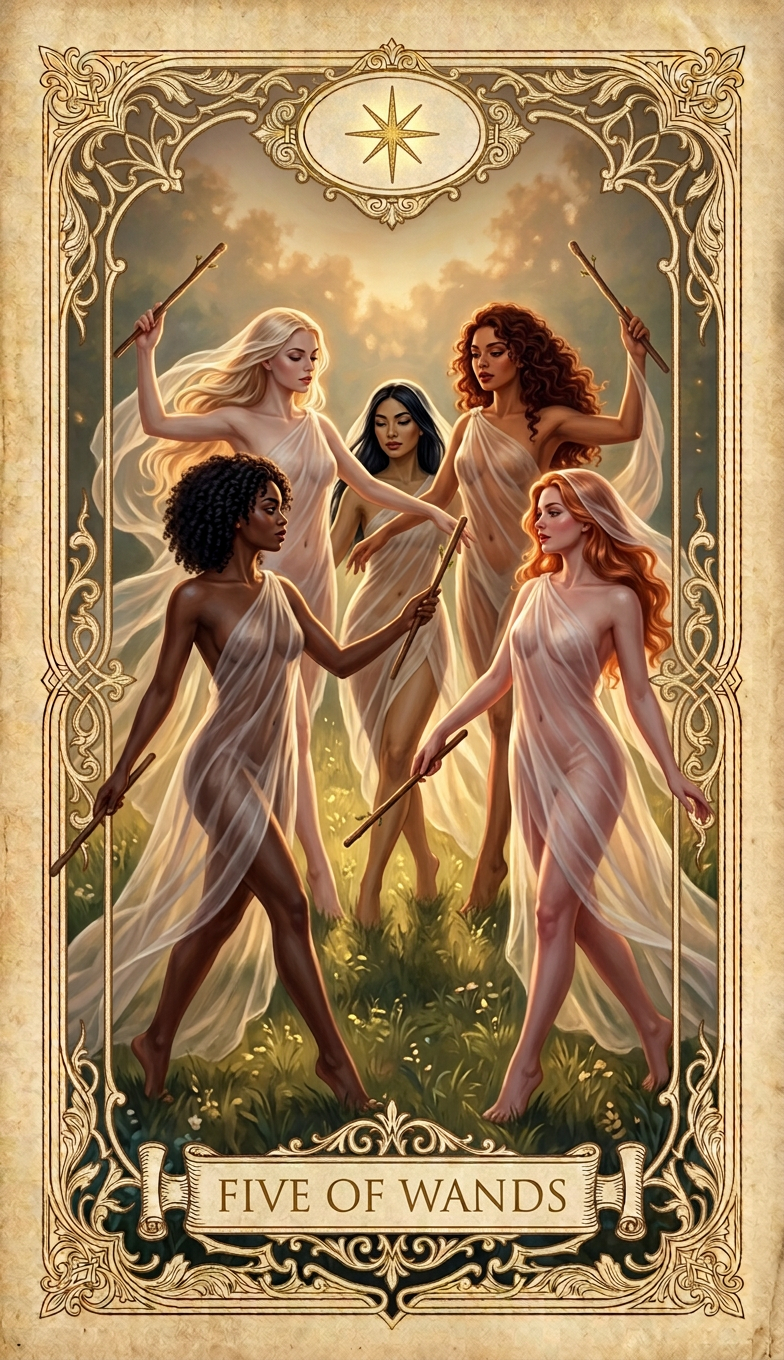
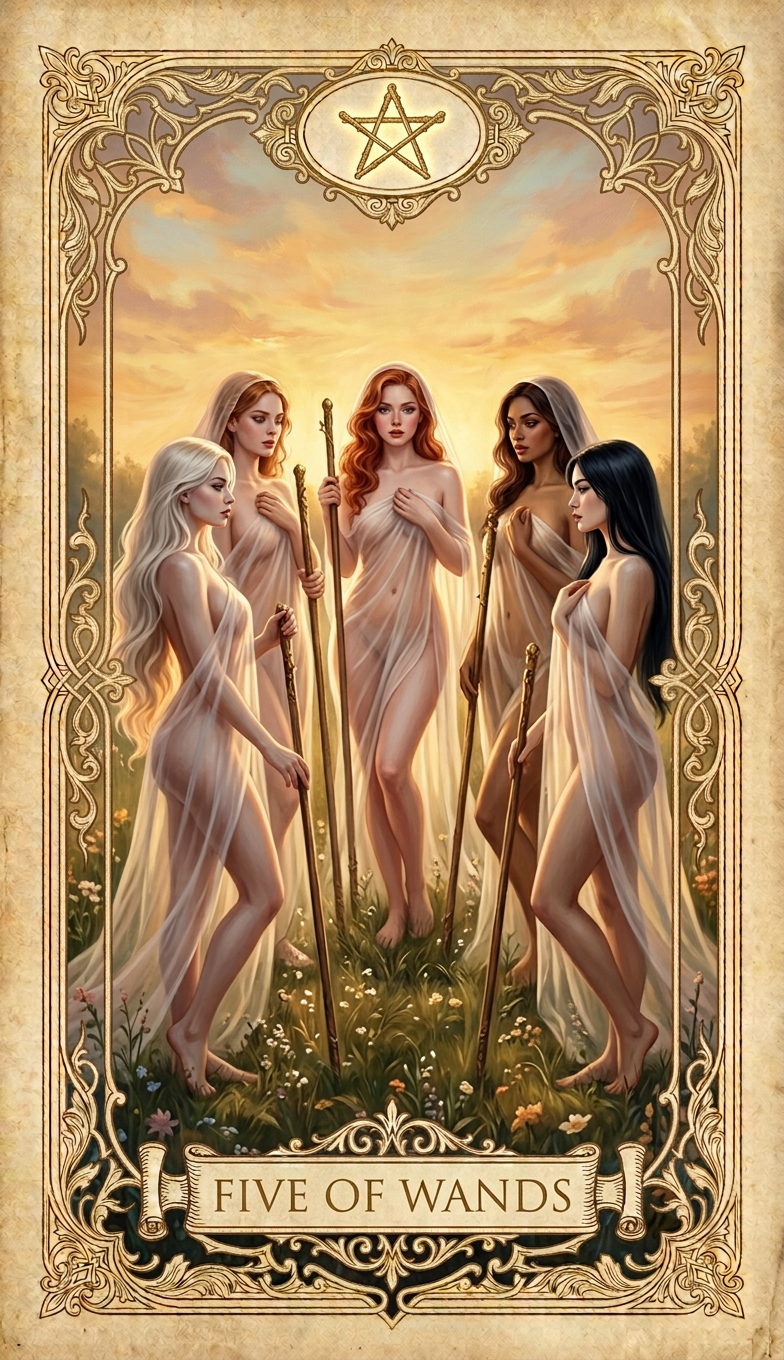
Apply chosen variants: Four of Wands 4A, Five of Wands 5C
- Four of Wands -> 4A (porcelain/honey-gold + rosy ivory/deep auburn
  ringlets), frame RMSE 0.020.
- Five of Wands -> 5C (five women in a loose circle, one wand each, strict
  5-wand count, all fair-skinned), frame RMSE 0.033.
- Updated scene metadata, regenerated prompts + gallery, removed leftover
  candidate files and the comparison page.

diff --git a/cards/index.html b/cards/index.html
@@ -606,7 +606,7 @@
             <div class="card-details">
                 <div class="card-title">FOUR OF WANDS</div>
                 <div class="card-meta"><strong>Độ tuổi:</strong> 20 years old &bull; <strong>Huy hiệu:</strong> four wands with a garland</div>
-                <div class="card-scene">four garlanded wands forming a festive canopy, two graceful young women dancing gently beneath it, both draped in diaphanous transparent silk veils — one fair-skinned with flowing honey-gold hair and one deep-skinned with tight black coils, each with a distinct face and figure — a manor beyond</div>
+                <div class="card-scene">four garlanded wands forming a festive canopy, two graceful young women dancing gently beneath it, both draped in diaphanous transparent silk veils and both with fair skin tones — one porcelain-skinned with flowing honey-gold hair and one rosy ivory-skinned with deep auburn ringlets, each with a distinct face and figure — a manor beyond</div>
             </div>
         </div>
         <div class="card-item">
@@ -614,7 +614,7 @@
             <div class="card-details">
                 <div class="card-title">FIVE OF WANDS</div>
                 <div class="card-meta"><strong>Độ tuổi:</strong> 21 years old &bull; <strong>Huy hiệu:</strong> five wands crossed in a star</div>
-                <div class="card-scene">five graceful young women draped in diaphanous transparent silk veils dancing gently in a soft meadow, each woman distinct — one fair-skinned with flowing blonde hair, one warm-toned with dark auburn curls, one deep-skinned with tight black coils, one olive-skinned with straight black hair, and one rosy-skinned with copper waves — each holding exactly one wand</div>
+                <div class="card-scene">five graceful young women draped in diaphanous transparent silk veils standing in a loose circle in a soft meadow, each woman distinct and every one with fair skin tones — one porcelain-skinned with long platinum-blonde hair, one rosy ivory-skinned with copper-red waves, one warm ivory-skinned with deep chocolate-brown hair, one fair-skinned with raven-black straight hair, and one light golden-skinned with strawberry-blonde hair — each holding exactly one wand planted upright beside her</div>
             </div>
         </div>
         <div class="card-item">
